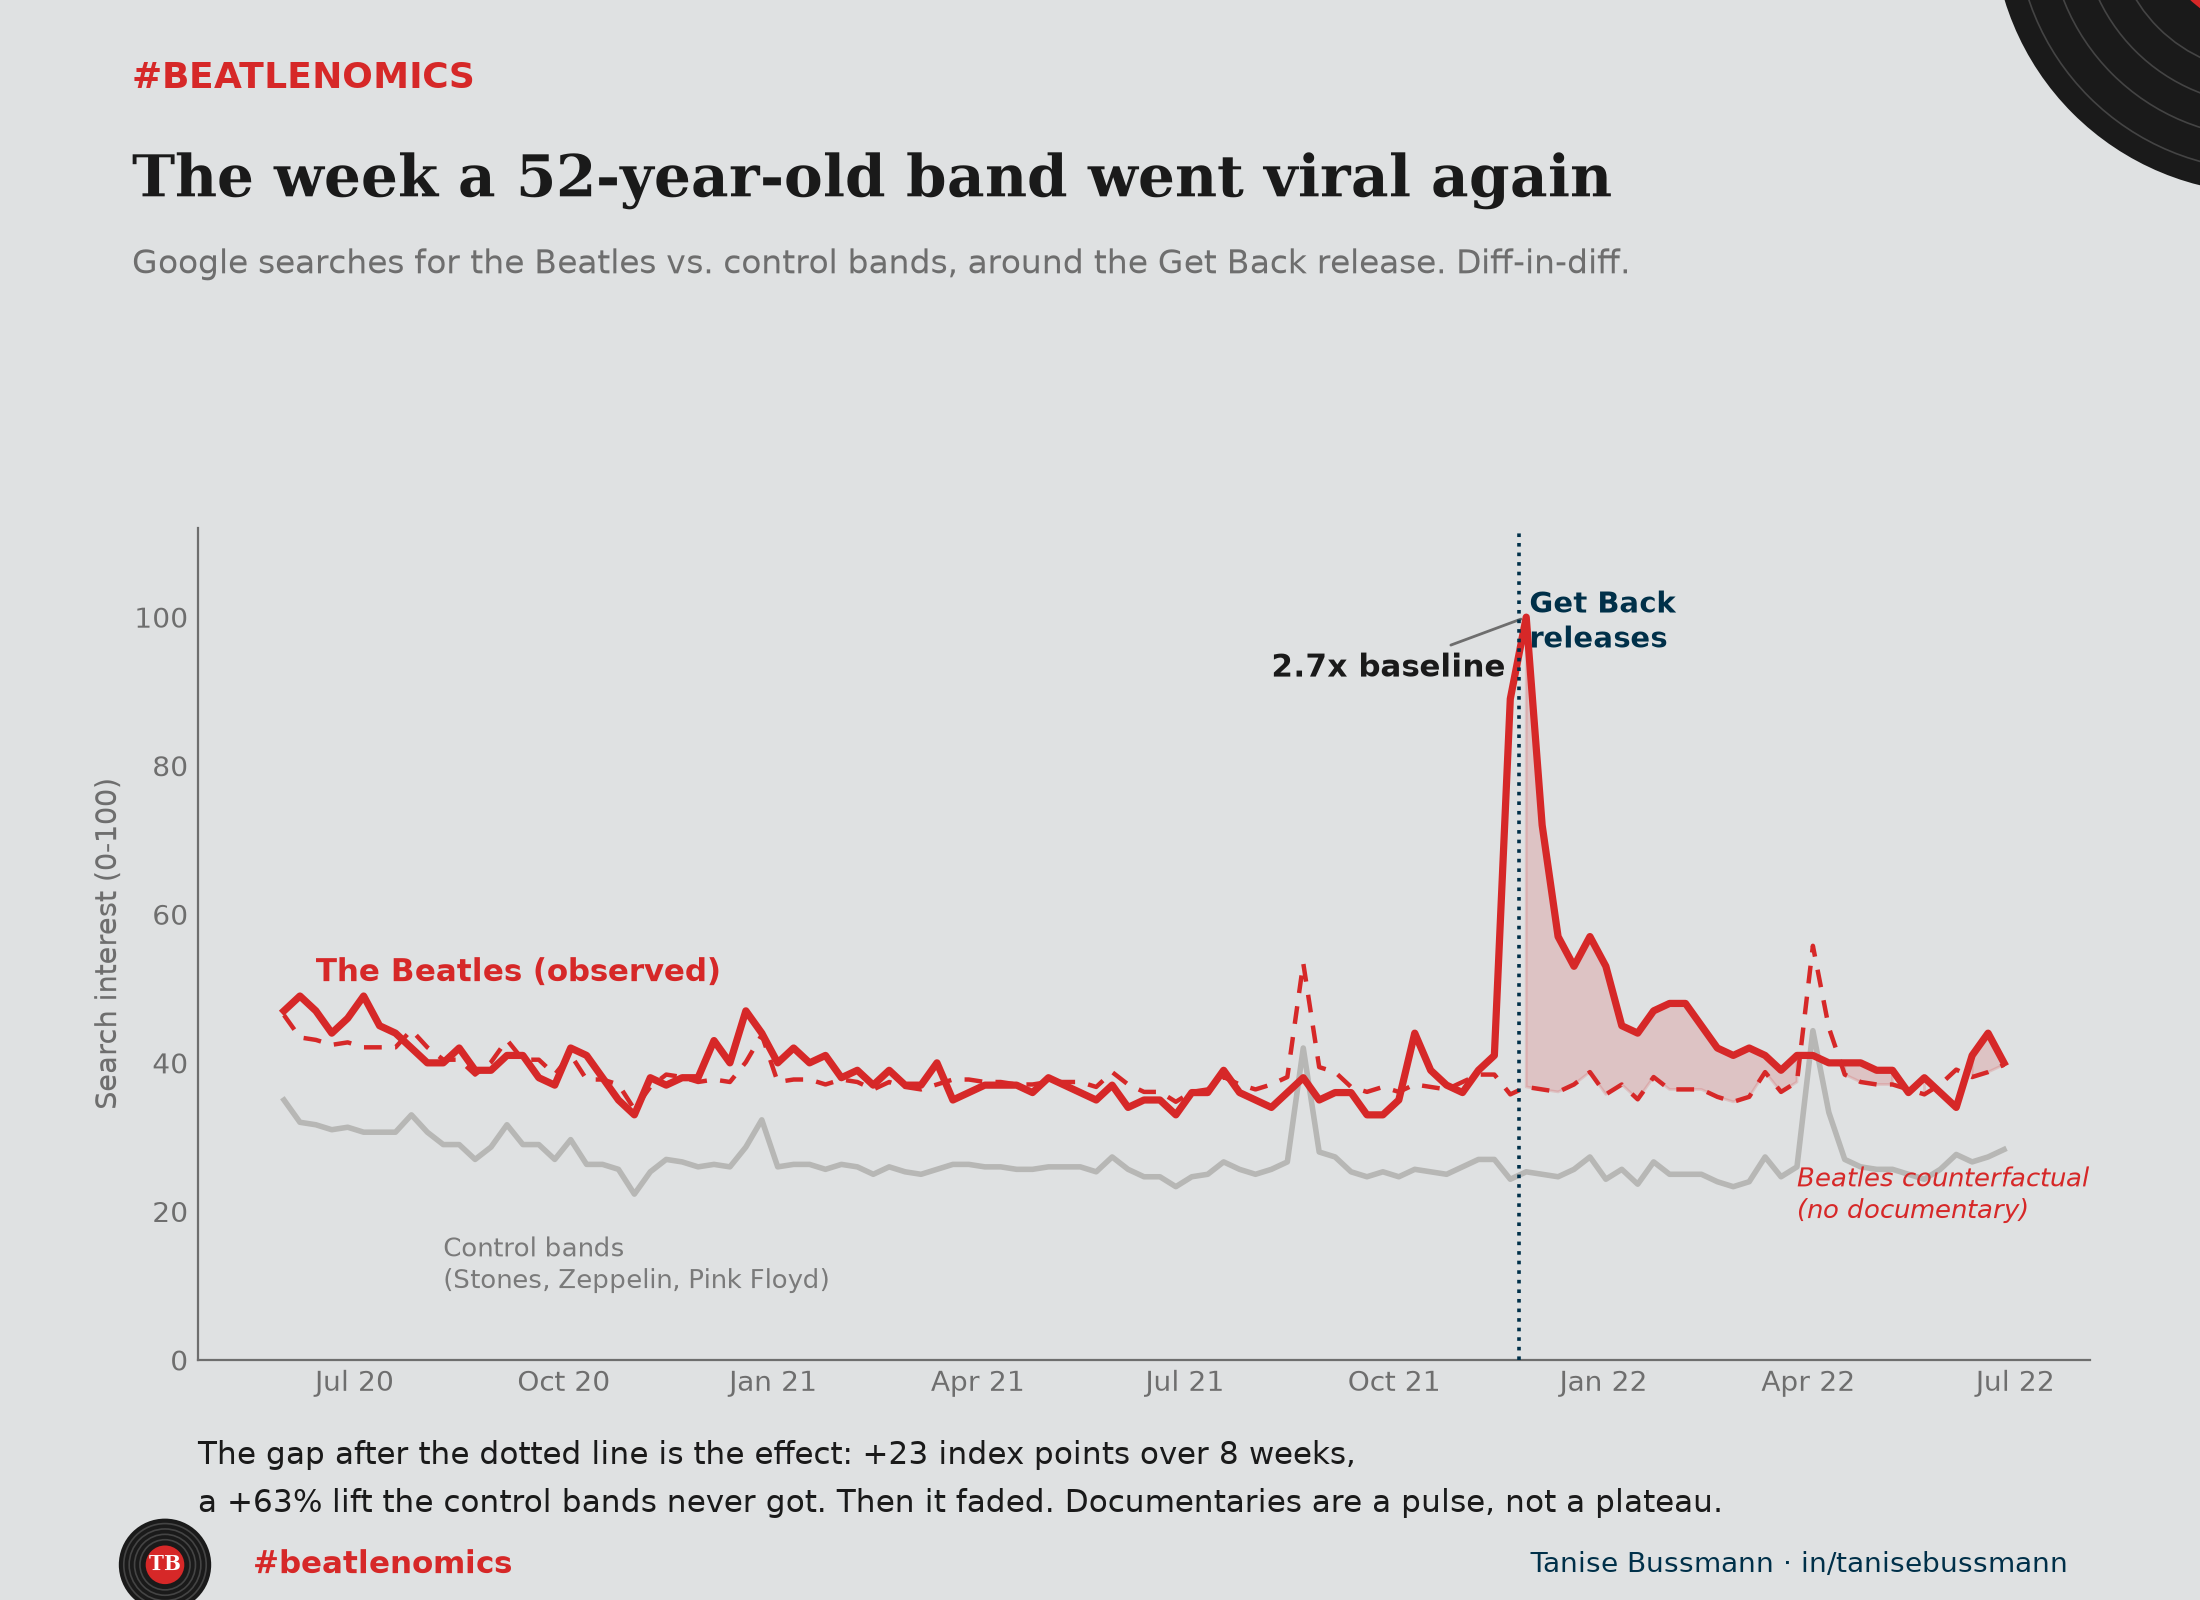
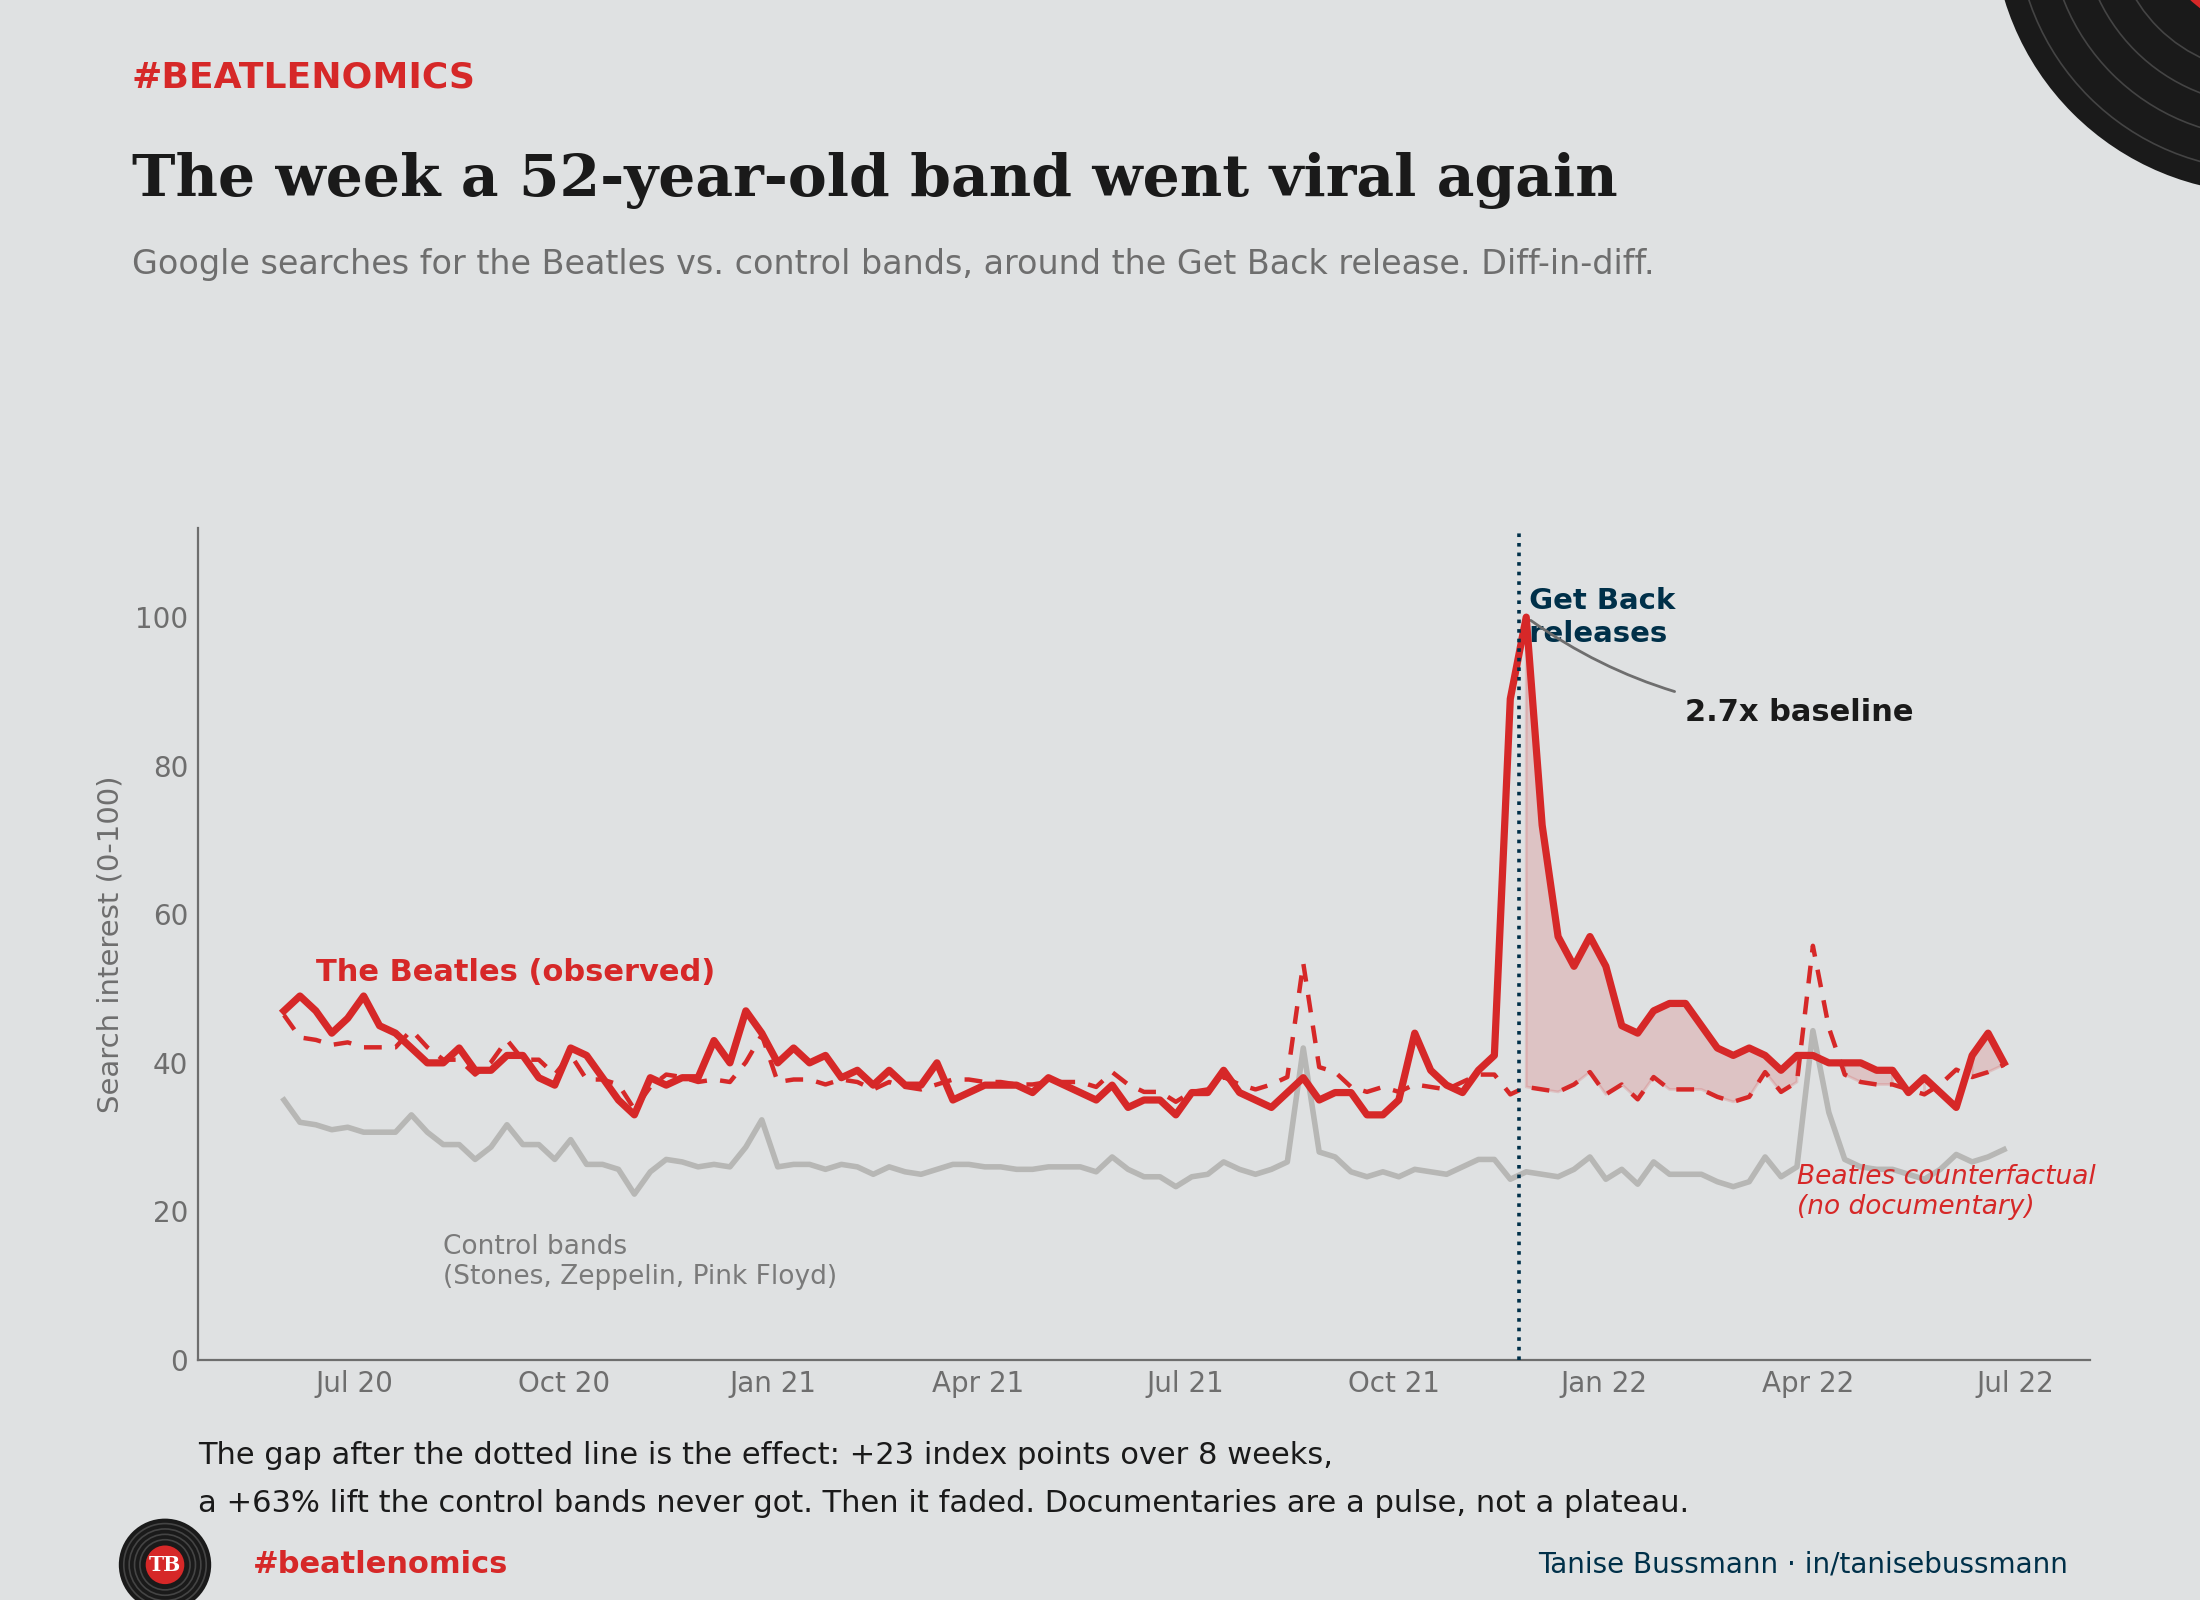
Rework C6 placebo chart as event-study lines, fix C3 annotation
C6: replace the histogram of placebo estimates with two event-study
line charts (c6_lines: DiD gap centered on pre-baseline; c6_levels:
same 0-100 scale as C3) so the Thursday post visually pairs with
Monday's C3 chart.

C3: nudge the "2.7x baseline" annotation right so its leader line
stops crossing the plotted series.

diff --git a/visuais/gerar_c6_lines.py b/visuais/gerar_c6_lines.py
@@ -1,0 +1,88 @@
+"""Post C6 (alternativa visual) — placebo em formato event-study, no estilo do C3.
+Em vez de histograma, alinha cada data de tratamento (a real do Get Back + as
+falsas; n dinâmico, 63 na config atual) no tempo relativo (semana 0 = tratamento)
+e plota o gap DiD ao longo
+das semanas. As placebo viram um feixe cinza colado no zero; a real dispara.
+Mesma gramática visual do C3 (linhas no tempo + destaque vermelho), pra o par
+segunda/quinta ficar coeso.
+Dado: dados/getback_trends_raw.csv. Fontes: posts/c6-placebo/referencias.md
+"""
+import pandas as pd, numpy as np
+from beatlenomics_style import make_canvas, VERMELHO, AZUL, PRETO, CINZA
+
+df = pd.read_csv("dados/getback_trends_raw.csv", parse_dates=["date"]).set_index("date").drop(columns=["isPartial"])
+ctrl = ["The Rolling Stones", "Led Zeppelin", "Pink Floyd"]
+df["gap"] = df["The Beatles"] - df[ctrl].mean(axis=1)   # diferença tratado - controle
+weeks = df.index
+# pytrends rotula a semana pela data de INÍCIO; a semana do lançamento (25-27/nov)
+# é a que começa em 2021-11-21. ffill = última data do índice <= o lançamento.
+real = weeks[weeks.get_indexer([pd.Timestamp("2021-11-25")], method="ffill")[0]]
+PRE, POST = 12, 8
+ks = np.arange(-PRE, POST + 1)
+
+
+def event_curve(t):
+    """gap DiD centrado no baseline pré, semanas -12..+8 relativas a t."""
+    vals = []
+    for k in ks:
+        d = t + pd.Timedelta(weeks=int(k))
+        vals.append(df["gap"].get(d, np.nan))
+    vals = np.array(vals, float)
+    base = np.nanmean(vals[ks < 0])
+    return vals - base
+
+
+lo = weeks.min() + pd.Timedelta(weeks=PRE)
+hi = weeks.max() - pd.Timedelta(weeks=POST)
+# exclui janelas que tocam o evento real (pré ou pós), p/ não contaminar o placebo
+rel = pd.Timestamp("2021-11-25")
+excl = (rel - pd.Timedelta(weeks=10), rel + pd.Timedelta(weeks=16))
+placebo_dates = [w for w in weeks if lo <= w <= hi and not (excl[0] <= w <= excl[1])]
+n = len(placebo_dates)
+
+fig, ax = make_canvas(
+    "The placebo test, in one chart",
+    f"Same diff-in-diff, aligned at the treatment week. The real Get Back effect vs. {n} fake dates.",
+    figsize=(11, 8))
+ax.set_position([0.09, 0.16, 0.86, 0.50])
+
+# feixe placebo (cinza, fino, transparente)
+for t in placebo_dates:
+    ax.plot(ks, event_curve(t), color="#B7B7B5", lw=0.8, alpha=0.45, zorder=2)
+# efeito real (vermelho grosso)
+real_curve = event_curve(real)
+ax.plot(ks, real_curve, color=VERMELHO, lw=2.8, zorder=4)
+
+ax.axhline(0, color=CINZA, lw=1, ls=":", zorder=1)
+ax.axvline(0, color=AZUL, lw=1.2, ls=":", zorder=3)
+
+peak_k = int(ks[np.nanargmax(real_curve)])
+peak_v = float(np.nanmax(real_curve))
+ax.set_ylim(-35, peak_v + 14)
+
+# rótulo do tratamento à ESQUERDA da linha, na região vazia do pré (sem tocar o vermelho)
+ax.text(-0.5, 44, "treatment\nweek", color=AZUL, fontsize=10, fontweight="bold",
+        va="center", ha="right", family="DejaVu Sans")
+# rótulo do efeito real acima e à direita do pico
+ax.text(peak_k + 1.3, peak_v + 5, "Get Back (real)", color=VERMELHO, fontsize=12,
+        fontweight="bold", va="bottom", ha="left", family="DejaVu Sans")
+ax.text(-11.5, 8, f"{n} fake treatment dates", color="#7A7A7A", fontsize=11,
+        family="DejaVu Sans")
+
+ax.set_xlabel("Weeks relative to treatment", color=CINZA, fontsize=10.5)
+ax.set_ylabel("DiD gap vs. pre-baseline (index pts)", color=CINZA, fontsize=10.5)
+ax.set_xlim(-PRE, POST)
+from matplotlib.ticker import MultipleLocator
+ax.xaxis.set_major_locator(MultipleLocator(2))   # semanas inteiras no eixo
+
+peak = np.nanmax(real_curve)
+fig.text(0.09, 0.095,
+         "Before the treatment week, everything hugs zero. That co-movement is the parallel-trends check.",
+         color=PRETO, fontsize=11, family="DejaVu Sans")
+fig.text(0.09, 0.065,
+         f"After it, only the real line jumps (about +{peak:.0f} at its peak). The {len(placebo_dates)} fakes never leave the flat band.",
+         color=PRETO, fontsize=11, family="DejaVu Sans")
+
+out = "visuais/c6_lines.png"
+fig.savefig(out, dpi=200)
+print(f"salvo: {out} | anchor={real.date()} | placebos={len(placebo_dates)} | pico real +{peak:.1f}")

diff --git a/visuais/gerar_c6_levels.py b/visuais/gerar_c6_levels.py
@@ -1,0 +1,72 @@
+"""Post C6 (2o gráfico) — placebo em NÍVEIS, na mesma escala 0-100 do C3 (segunda).
+Alinha o interesse de busca dos Beatles no tempo relativo ao tratamento (semana 0)
+para a data real do Get Back E para as datas falsas (n dinâmico, 63 na config
+atual). Mesmo eixo y de segunda
+(search interest 0-100): a linha real dispara até 100, as falsas nunca saem da
+faixa dos ~40. Mostra a magnitude do efeito na mesma régua do post de segunda.
+Par de quinta: c6_lines.png (gap DiD centrado) + c6_levels.png (este, em níveis).
+Dado: dados/getback_trends_raw.csv. Fontes: posts/c6-placebo/referencias.md
+"""
+import pandas as pd, numpy as np
+from beatlenomics_style import make_canvas, VERMELHO, AZUL, PRETO, CINZA
+
+df = pd.read_csv("dados/getback_trends_raw.csv", parse_dates=["date"]).set_index("date").drop(columns=["isPartial"])
+weeks = df.index
+# semana do índice que contém o lançamento (25-27/nov): início 2021-11-21
+real = weeks[weeks.get_indexer([pd.Timestamp("2021-11-25")], method="ffill")[0]]
+PRE, POST = 12, 8
+ks = np.arange(-PRE, POST + 1)
+
+
+def level_curve(t):
+    """interesse de busca dos Beatles (nível), semanas -12..+8 relativas a t."""
+    return np.array([df["The Beatles"].get(t + pd.Timedelta(weeks=int(k)), np.nan) for k in ks], float)
+
+
+lo = weeks.min() + pd.Timedelta(weeks=PRE)
+hi = weeks.max() - pd.Timedelta(weeks=POST)
+rel = pd.Timestamp("2021-11-25")
+# exclui janelas que tocam o evento real (pré ou pós), p/ não contaminar o placebo
+excl = (rel - pd.Timedelta(weeks=10), rel + pd.Timedelta(weeks=16))
+placebo_dates = [w for w in weeks if lo <= w <= hi and not (excl[0] <= w <= excl[1])]
+n = len(placebo_dates)
+
+fig, ax = make_canvas(
+    f"The same spike, tried on {n} other weeks",
+    "Beatles search interest around each treatment week. Same 0-100 scale as Monday's chart.",
+    figsize=(11, 8))
+ax.set_position([0.09, 0.15, 0.86, 0.52])
+
+for t in placebo_dates:
+    ax.plot(ks, level_curve(t), color="#B7B7B5", lw=0.8, alpha=0.45, zorder=2)
+real_curve = level_curve(real)
+ax.plot(ks, real_curve, color=VERMELHO, lw=2.8, zorder=4)
+
+ax.axvline(0, color=AZUL, lw=1.2, ls=":", zorder=3)
+ax.text(-0.5, 92, "treatment\nweek", color=AZUL, fontsize=10, fontweight="bold",
+        va="center", ha="right", family="DejaVu Sans")
+
+peak_k = int(ks[np.nanargmax(real_curve)])
+peak_v = float(np.nanmax(real_curve))
+ax.text(peak_k + 1.3, peak_v, "Get Back (real)", color=VERMELHO, fontsize=12,
+        fontweight="bold", va="center", ha="left", family="DejaVu Sans")
+ax.text(-11.5, 52, f"{n} fake treatment dates", color="#7A7A7A", fontsize=11,
+        family="DejaVu Sans")
+
+ax.set_ylim(0, 112)                              # MESMA escala do C3 (segunda)
+ax.set_xlim(-PRE, POST)
+from matplotlib.ticker import MultipleLocator
+ax.xaxis.set_major_locator(MultipleLocator(2))   # semanas inteiras no eixo
+ax.set_ylabel("Search interest (0-100)", color=CINZA, fontsize=10.5)
+ax.set_xlabel("Weeks relative to treatment", color=CINZA, fontsize=10.5)
+
+fig.text(0.09, 0.085,
+         "The real Get Back week is the only line that leaves the pack. It jumps to 2.7x its baseline, to 100.",
+         color=PRETO, fontsize=11, family="DejaVu Sans")
+fig.text(0.09, 0.055,
+         f"The {n} fake dates never break out of the low band. On Monday's own scale, the effect is unmistakable.",
+         color=PRETO, fontsize=11, family="DejaVu Sans")
+
+out = "visuais/c6_levels.png"
+fig.savefig(out, dpi=200)
+print(f"salvo: {out} | placebos={len(placebo_dates)} | pico real {peak_v:.0f} (escala 0-112 do C3)")

diff --git a/visuais/gerar_c3_getback.py b/visuais/gerar_c3_getback.py
@@ -55,11 +55,12 @@ ax.text(x[10], df["Control"].iloc[10] - 12,
         "Control bands\n(Stones, Zeppelin, Pink Floyd)", color="#7A7A7A",
         fontsize=9.5, family="DejaVu Sans", va="top")
 
-# anotação do pico
+# anotação do pico (à direita do pico, área vazia — não briga com o rótulo da linha)
 peak_week = pd.Timestamp("2021-11-28")
-ax.annotate("2.7x baseline", xy=(peak_week, 100), xytext=(x[62], 92),
+ax.annotate("2.7x baseline", xy=(peak_week, 100), xytext=(x[88], 86),
             color=PRETO, fontsize=11, fontweight="bold", family="DejaVu Sans",
-            arrowprops=dict(arrowstyle="-", color=CINZA, lw=1))
+            ha="left", arrowprops=dict(arrowstyle="-", color=CINZA, lw=1,
+                                       connectionstyle="arc3,rad=-0.15"))
 
 ax.set_ylim(0, 112)
 ax.set_ylabel("Search interest (0-100)", color=CINZA, fontsize=10.5)
